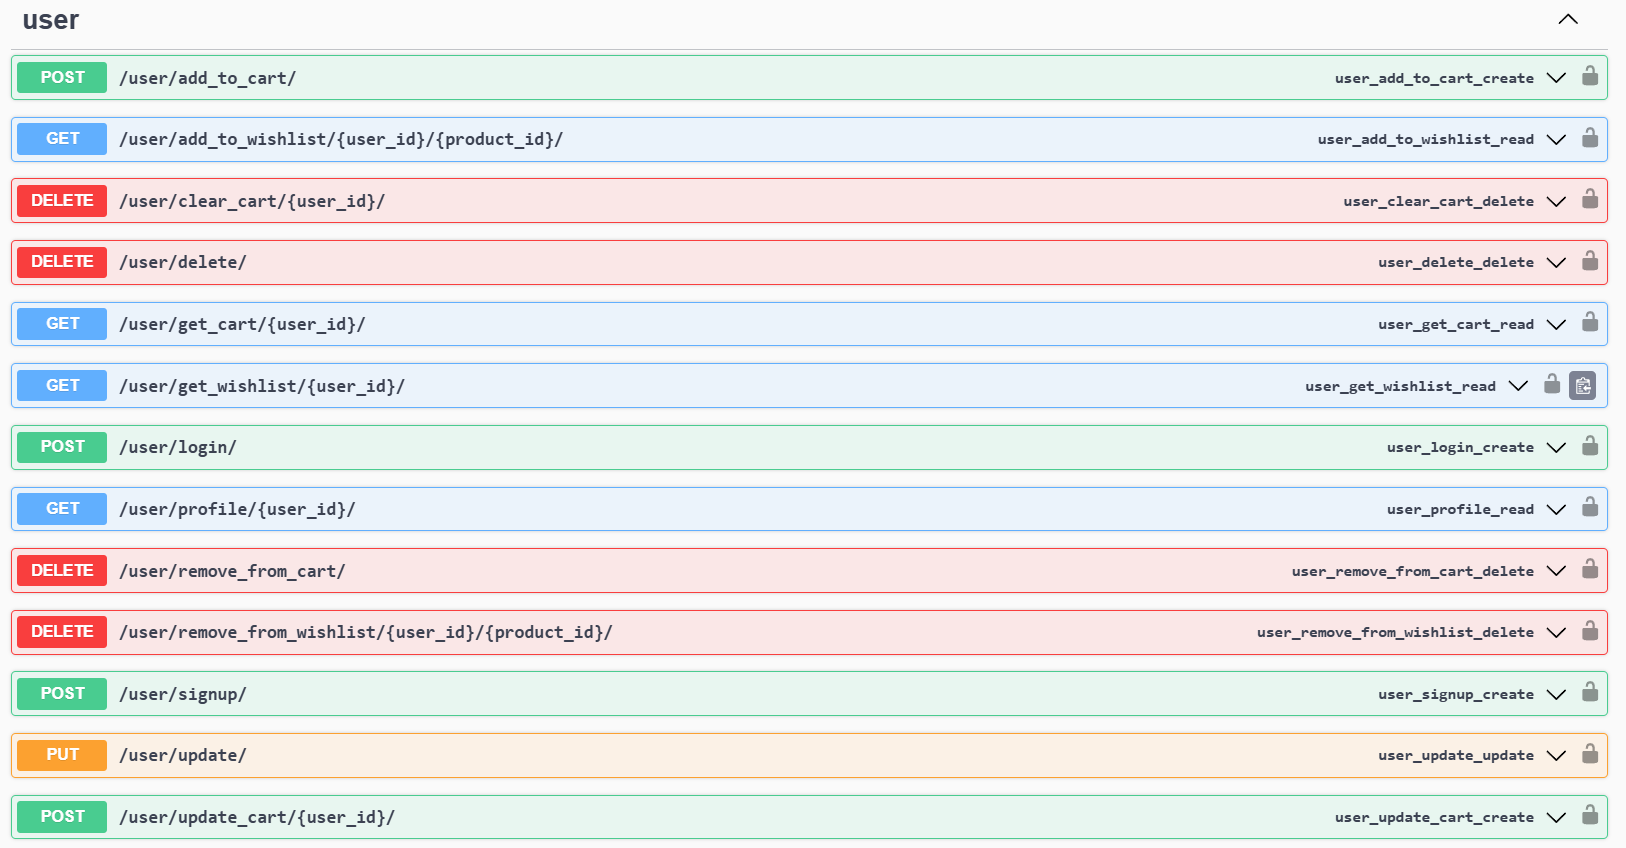
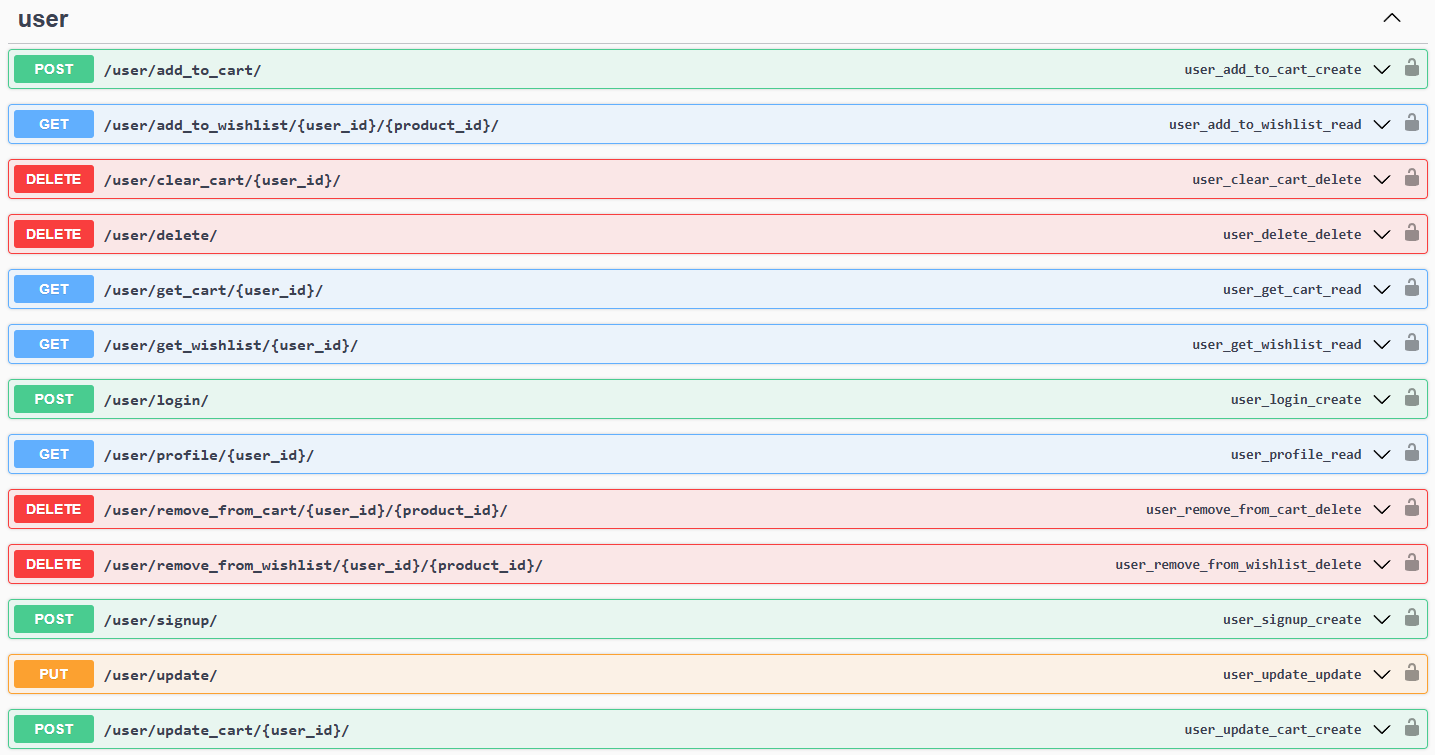
Add User API documentation and endpoints for user management

diff --git a/API_DOCS.md b/API_DOCS.md
@@ -4,7 +4,7 @@
 - [Order API](#order-api)
 - [Payment API](#payment-api)
 - [Product API](#product-api)
-
+- [User API](#user-api)
 
 ## Order API
 ### Order API Overview
@@ -13,6 +13,7 @@ The Order API is used to manage orders in the system. It allows you to create an
 ### Order API Endpoints
 1. #### `POST /order/create/{user_id}`
     **Description**: Creates a new order for the specified user.
+    - **`user_id`**: The ID of the user who is placing the order.
 
     The JSON object represents an order submitted by a user.
     - **`payment_method`**: The payment method used for the order (e.g. `cod` for Cash on Delivery, and `online` for Online Payment).
@@ -28,9 +29,11 @@ The Order API is used to manage orders in the system. It allows you to create an
 
 2. #### `GET /order/get_all_orders/{user_id}/`
     **Description**: Retrieves all orders for the specified user.
+    - **`user_id`**: The ID of the user.
 
 3. #### `GET /order/get_order/{order_id}/`
     **Description**: Retrieves a specific order by its ID.
+    - **`order_id`**: The ID of the order.
 
 ## Payment API
 ### Payment API Overview
@@ -39,6 +42,7 @@ The Payment API is used to manage payments in the system. It allows you to creat
 ### Payment API Endpoints
 1. #### `POST /payment/make_payment/{order_id}`
     **Description**: Makes a payment for the specified order.
+    - **`order_id`**: The ID of the order for which the payment is being made.
 
     The JSON object represents a payment submitted by a user.
     - **`payment_method_id`**: The ID of the payment method used for the payment.
@@ -167,4 +171,235 @@ The Product API is used to manage products in the system. It allows you to creat
     }
     ```
 
-10. #### `POST /product/filter_review_by_rating/`
+10. #### `GET /product/get_review/{product_id}/`
+    **Description**: Retrieves reviews for a specific product by its ID.
+    - **`product_id`**: The ID of the product.
+
+11. #### `GET /product/list/{user_id}/`
+    **Description**: Retrieves a list of products for a specific user.
+    - **`user_id`**: The ID of the user.
+
+12. #### `POST /product/search/`
+    **Description**: Searches for products based on a keyword. All the keys are optional. If a key is not provided, it is not used in the search. It also supports partial search for the keyword. For example, if the keyword is "lap", it will return products with names like "Laptop", "Lapdesk", etc.
+
+    The JSON object represents the search criteria.
+    - **`name`**: The keyword to search for.
+    - **`brand`**: The brand to search in.
+    - **`category`**: The category to search in.
+    - **`min_price`**: The minimum price.
+    - **`max_price`**: The maximum price.
+
+    Request Payload:
+    ```sh
+    {
+    "name": "",
+    "brand": "",
+    "min_price": 80000,
+    "max_price": 150000,
+    "category": "Lap"
+    }
+    ```
+
+13. #### `PUT /product/update/`
+    **Description**: Updates a product. All the keys are optional. If a key is not provided, it is not used in the update. The ID of the product to be updated must be provided.
+
+    The JSON object represents the product to be updated.
+    - **`id`**: The ID of the product to be updated.
+    - **`name`**: The name of the product.
+    - **`description`**: The description of the product.
+    - **`price`**: The price of the product.
+    - **`quantity`**: The quantity of the product available.
+    - **`brand`**: The brand of the product.
+    - **`category`**: The category of the product.
+    - **`image_path`**: The path to the image of the product.
+
+    Request Payload:
+    ```sh
+    {
+        "id": 1,
+        "name": "Product",
+        "description": "Product Description",
+        "price": 40.00,
+        "quantity": 5,
+        "brand": "Brand Name",
+        "category": "Category",
+        "image_path": "/images/products/product.jpg"
+    }
+    ```
+
+14. #### `PUT /product/update_review/{user_id}/{product_id}`
+    **Description**: Updates a review for a product.
+    - **`user_id`**: The ID of the user who submitted the review.
+    - **`product_id`**: The ID of the product being reviewed.
+
+    The JSON object represents the updated review.
+    - **`rating`**: The updated rating given to the product by the user (out of 5).
+    - **`review`**: The updated textual review provided by the user.
+
+    Request Payload:
+    ```sh
+    {
+        "rating": 4,
+        "review": "Updated review"
+    }
+    ```
+
+## User API
+### User API Overview
+The User API is used to manage users in the system. It allows you to create, read, update, delete, signup and signin users. It also provides endpoints for adding, updating and removing from a user's cart and wishlist.
+
+### User API Endpoints
+1. #### `POST /user/add_to_cart/`
+    **Description**: Adds a product to the user's cart.
+
+    The JSON object represents the product to be added to the cart.
+    - **`user_id`**: The ID of the user.
+    - **`product_id`**: The ID of the product.
+
+    Request Payload:
+    ```sh
+    {
+        "user_id": 1,
+        "product_id": 2
+    }
+    ```
+
+2. #### `GET /user/add_to_wishlist/{user_id}/{product_id}/`
+    **Description**: Adds a product to the user's wishlist.
+    - **`user_id`**: The ID of the user.
+    - **`product_id`**: The ID of the product.
+
+3. #### `DELETE /user/clear_cart/{user_id}`
+    **Description**: Clears the user's cart.
+    - **`user_id`**: The ID of the user.
+
+4. #### `DELETE /user/delete/`
+    **Description**: Deletes a user.
+    - **`id`**: The ID of the user to be deleted.
+
+    The JSON object represents the user to be deleted.
+    Request Payload:
+    ```sh
+    {
+        "id": 1
+    }
+    ```
+
+5. #### `GET /user/get_cart/{user_id}/`
+    **Description**: Retrieves the user's cart.
+    - **`user_id`**: The ID of the user.
+
+6. #### `GET /user/get_wishlist/{user_id}/`
+    **Description**: Retrieves the user's wishlist.
+    - **`user_id`**: The ID of the user.
+
+7. #### `POST /user/login/`
+    **Description**: Logs in a user.
+
+    The JSON object represents the user's login credentials.
+    - **`email`**: The email of the user.
+    - **`password`**: The password of the user.
+
+    Request Payload:
+    ```sh
+    {
+        "email": "user_email",
+        "password": "user_password"
+    }
+    ```
+
+8. #### `GET /user/user_profile/{user_id}/`
+    **Description**: Retrieves the profile of a user.
+    - **`user_id`**: The ID of the user.
+
+9. #### `DELETE /user/remove_from_cart/{user_id}/{product_id}/`
+    **Description**: Removes a product from the user's cart.
+    - **`user_id`**: The ID of the user.
+    - **`product_id`**: The ID of the product.
+
+10. #### `DELETE /user/remove_from_wishlist/{user_id}/{product_id}/`
+    **Description**: Removes a product from the user's wishlist.
+    - **`user_id`**: The ID of the user.
+    - **`product_id`**: The ID of the product.
+
+11. #### `POST /user/signup/`
+    **Description**: Signs up a new user.
+
+    The JSON object represents the user's signup details.
+    - **`first_name`**: The first name of the user.
+    - **`last_name`**: The last name of the user.
+    - **`email`**: The email of the user.
+    - **`password`**: The password of the user.
+    - **`phone_number`**: The phone number of the user.
+    - **`address`**: The address of the user.
+    - **`city`**: The city of the user.
+    - **`state`**: The state of the user.
+    - **`country`**: The country of the user.
+    - **`pin_code`**: The zip code of the user.
+    - **`date_of_birth`**: The date of birth of the user.
+
+    Request Payload:
+    ```sh
+    {
+        "first_name": "First Name",
+        "last_name": "Last Name",
+        "email": "user_email",
+        "password": "user_password",
+        "phone_number": 0123456789,
+        "address": "user_address",
+        "city": "user_city",
+        "state": "user_state",
+        "country": "user_country",
+        "pin_code": 10001,
+        "date_of_birth": "1990-05-15"
+    }
+    ```
+
+12. #### `PUT /user/update/`
+    - **Description**: Updates a user's profile. All the keys are optional. If a key is not provided, it is not used in the update. The ID of the user to be updated must be provided.
+
+    The JSON object represents the user's updated profile details.
+    - **`id`**: The ID of the user.
+    - **`first_name`**: The first name of the user.
+    - **`last_name`**: The last name of the user.
+    - **`email`**: The email of the user.
+    - **`phone_number`**: The phone number of the user.
+    - **`address`**: The address of the user.
+    - **`city`**: The city of the user.
+    - **`state`**: The state of the user.
+    - **`country`**: The country of the user.
+    - **`pin_code`**: The zip code of the user.
+    - **`date_of_birth`**: The date of birth of the user.
+    - **`password`**: The password of the user.
+
+    Request Payload:
+    ```sh
+    {
+        "id": 1,
+        "first_name": "First Name",
+        "last_name": "Last Name",
+        "email": "user_email",
+        "phone_number": 0123456789,
+        "address": "user_address",
+        "city": "user_city",
+        "state": "user_state",
+        "country": "user_country",
+        "pin_code": 10001,
+        "date_of_birth": "1990-05-15",
+        "password": "user_password"
+    }
+    ```
+
+13. #### `POST /user/update_cart/{user_id}`
+    **Description**: Updates the user's cart.
+    - **`user_id`**: The ID of the user.
+
+    The JSON object represents the updated cart.
+    - **`cart`**: The updated cart. The keys are product IDs and the values are the quantities of the products.
+
+    Request Payload:
+    ```sh
+    {
+        "cart": {"5": 4, "4": 5}
+    }
+    ```
